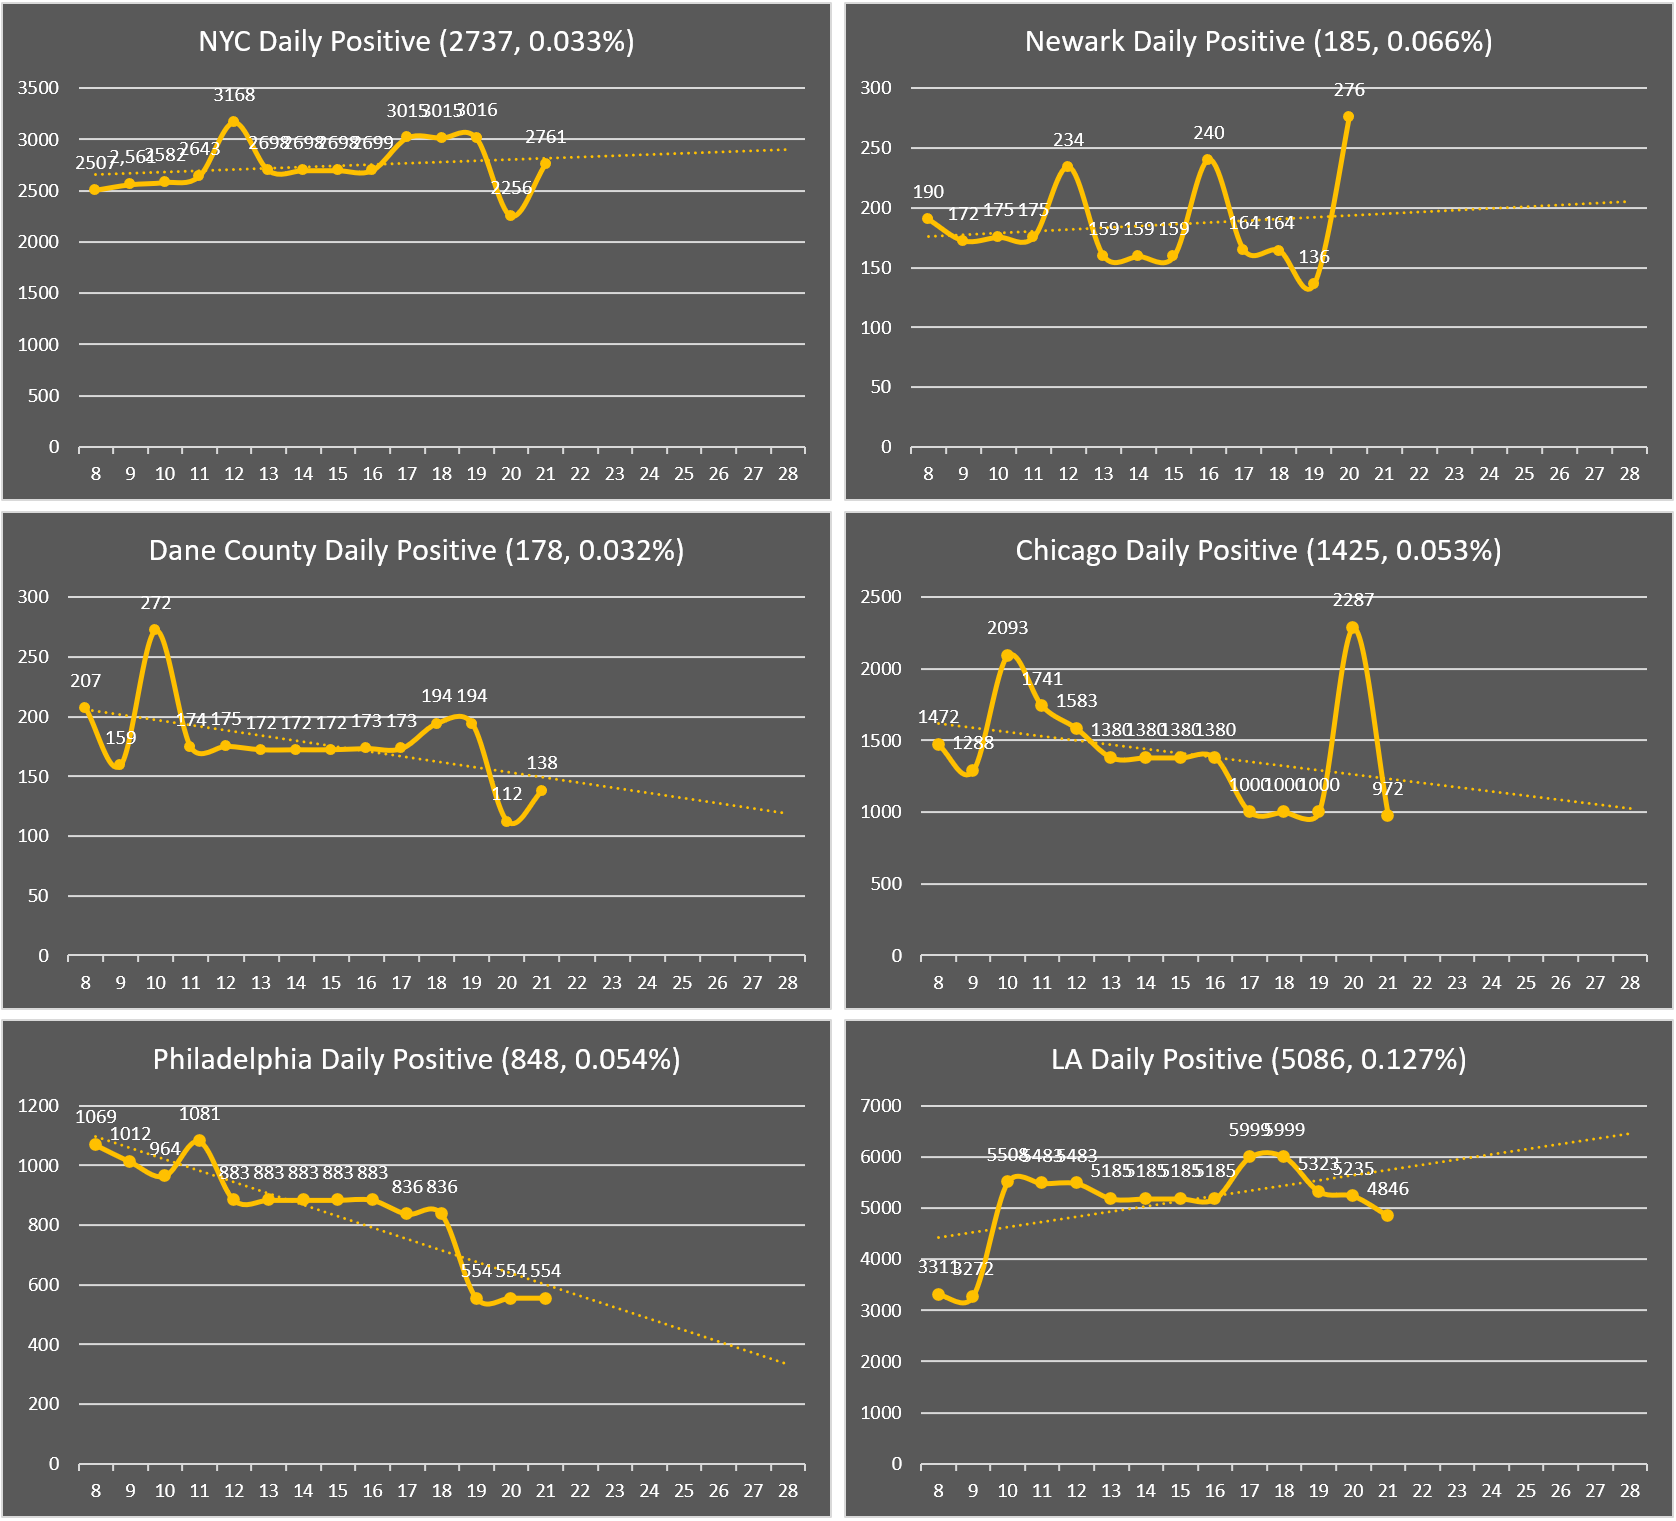
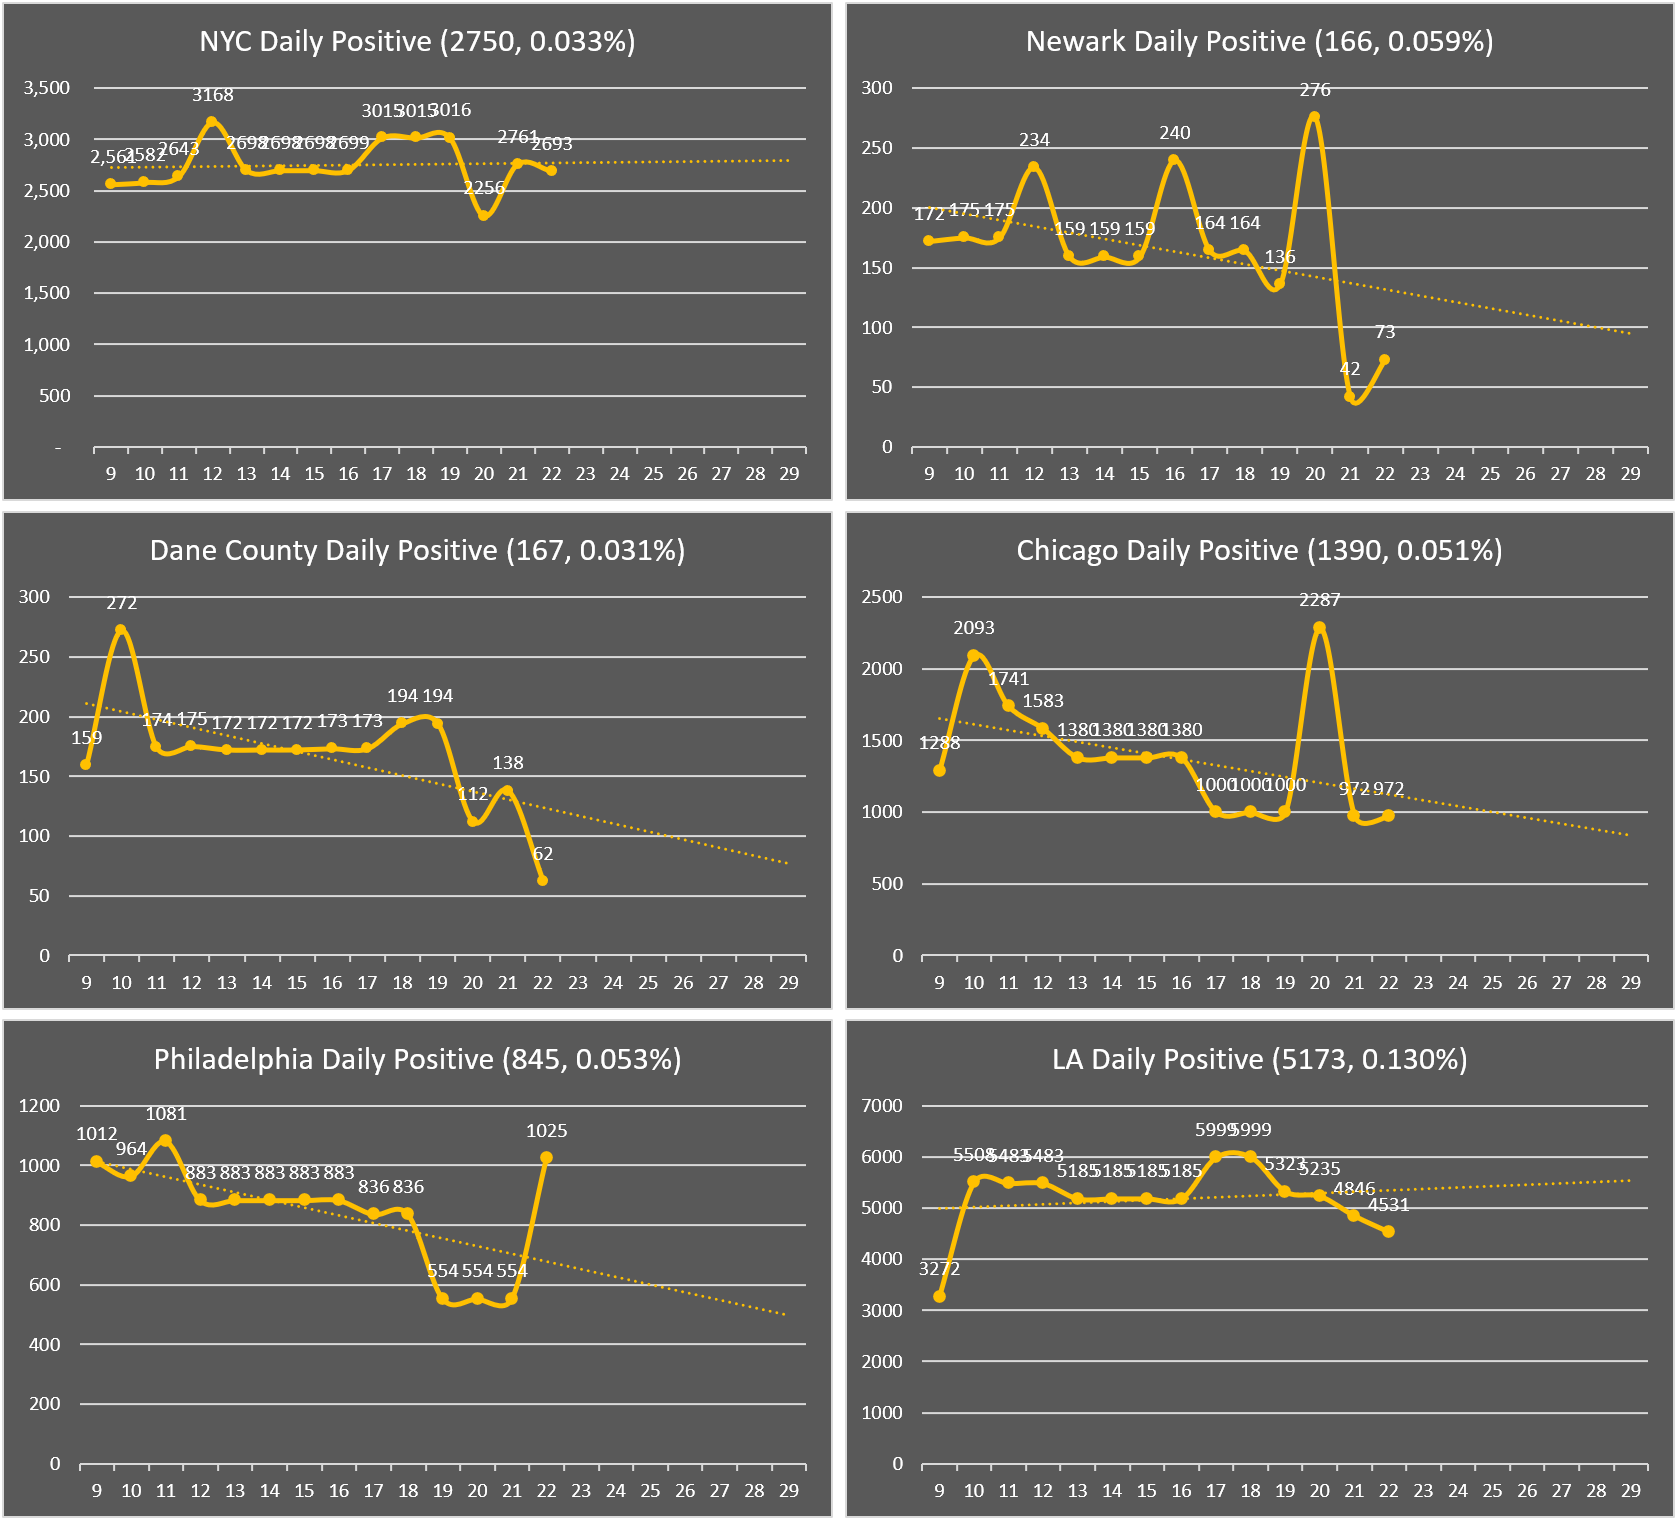
update 12/22 status

diff --git a/index.html b/index.html
@@ -19,7 +19,7 @@
 
 <body class="container-fluid">
 	<h1> CoronaV for Friends</h1>
-	<h2> Data updated at Dec 21 2020 EST 21:25</h2>
+	<h2> Data updated at Dec 23 2020 EST 00:30</h2>
 	<hr>
 	<main>
 		<div class="row">
